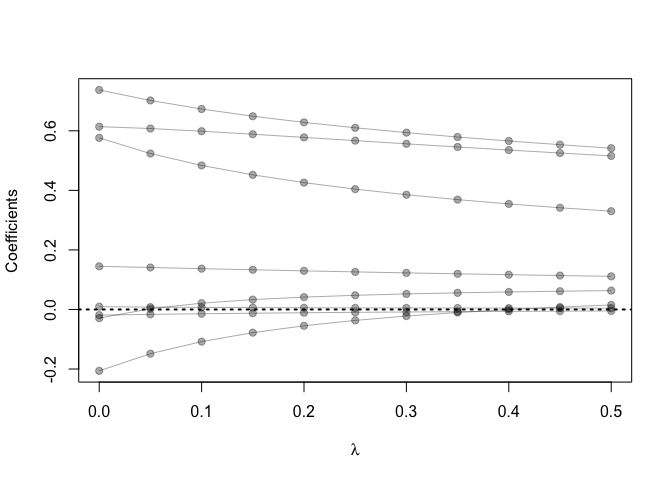
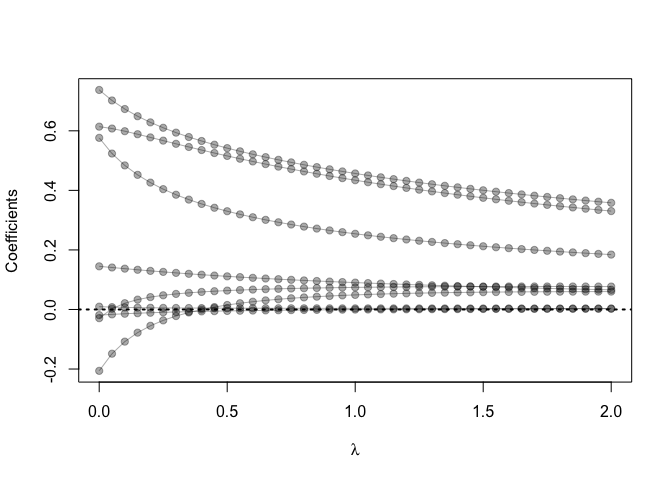
hw2 third

diff --git a/Homework2.md b/Homework2.md
@@ -66,7 +66,7 @@ Train a ridge regression model using the `glmnet` function, and tune the value o
     form  <- lpsa ~  0 + lcavol+ lweight + age + lbph + lcp + pgg45 + svi + gleason
     x_inp <- model.matrix(form, data=prostate_train)
     y_out <- prostate_train$lpsa
-    fit <- glmnet(x=x_inp, y=y_out, lambda=seq(0.5, 0, -0.05),alpha=0)
+    fit <- glmnet(x=x_inp, y=y_out, lambda=seq(2, 0, -0.05),alpha=0)
 
     ## functions to compute testing/training error w/lm
     L2_loss <- function(y, yhat) (y-yhat)^2
@@ -80,13 +80,13 @@ Train a ridge regression model using the `glmnet` function, and tune the value o
     }
 
     ## set a range of lambda
-    lambda.set <- seq(0,1,0.001)
+    lambda.set <- seq(0,2,0.01)
 
     index <- which.min(sapply(lambda.set,function(x) error(prostate_test, fit, lam=x, form=form)))
 
     cat("The $\\lambda$ that minimizes the test error is",lambda.set[index],".")
 
-    ## The $\lambda$ that minimizes the test error is 0.214 .
+    ## The $\lambda$ that minimizes the test error is 0.21 .
 
 Create a path diagram of the ridge regression analysis
 ======================================================
